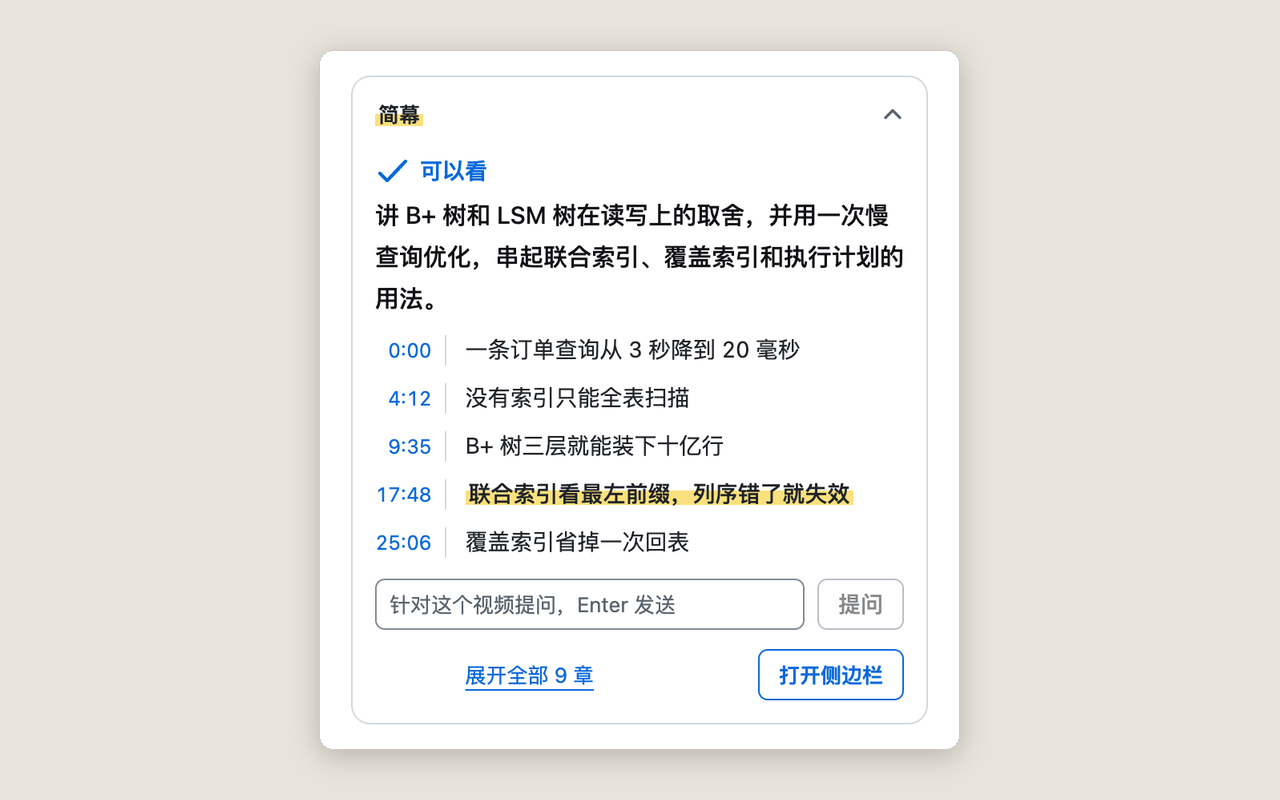
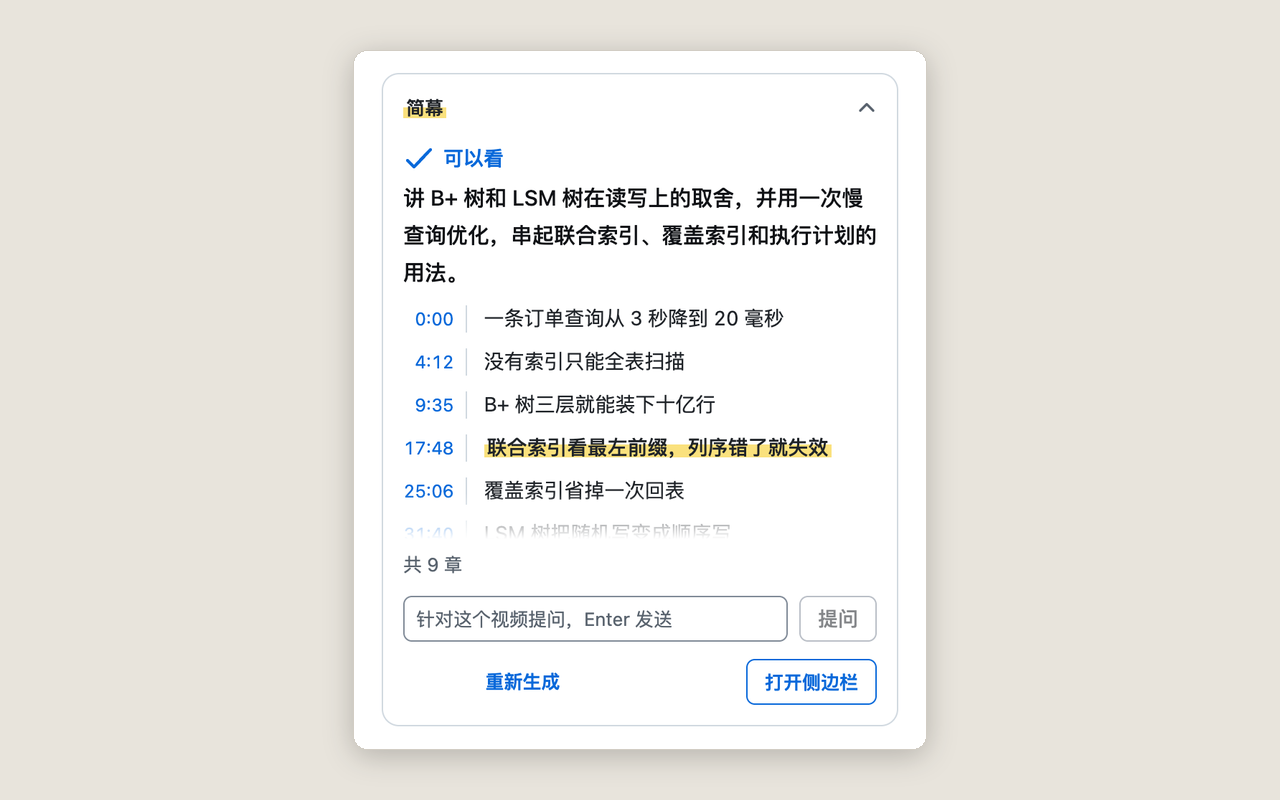
feat(卡片): 章节多时在列表里滚动，去掉「展开全部」 (#309)
* feat(卡片): 章节多时在列表里滚动，去掉「展开全部」

章节多于 6 章时整份都在，列表固定露出前 5 章那么高、第 6 章露出大半并淡出，其余在列表里滚动，底下写「共 N 章」；看后面的章节时卡片不变高，播放页右栏不重排，滚到底以后滚轮接着滚页面。底部一行不再有章节的「展开全部」，「重新生成」挪到左边，章节截着时也摆。官方总结的提纲照旧露前 5 段、点「展开全部」。README 的卡片截图重拍。

* fix(卡片): 正文区滚到头接着滚播放页

章节列表滚到底以后滚动传给正文区，正文区原来拦着不往外滚，滚轮就停在卡片里。去掉这道限制，卡片里滚到头都接着滚播放页。

Changed region(s): [[0.25, 0.0625, 0.75, 0.9375]]

diff --git a/src/pages/card/card.tsx b/src/pages/card/card.tsx
@@ -10,7 +10,7 @@ import type { LearningAnalysis } from "../../core/notes/markdown.ts";
 import { formatTimestamp } from "../../core/transcript/segment.ts";
 import type { OfficialSummaryView, OutlineSectionView } from "../../shared/messages/transcript.ts";
 import { keyChapterStarts, verdictName } from "../../core/ai/verdict.ts";
-import { ChapterList, type ChapterItem } from "../shared/ui/chapter-list.tsx";
+import type { ChapterItem } from "../shared/ui/chapter-list.tsx";
 import { Collapse } from "../shared/ui/collapse.tsx";
 import { CommentFold, commentViewOfVerdict } from "../shared/ui/comment-block.tsx";
 import { Icon, VerdictMark } from "../shared/ui/icon.tsx";
@@ -18,6 +18,7 @@ import { ServiceSaid } from "../shared/ui/notice.tsx";
 import { StaleTranscriptLine, VerdictBlock } from "../shared/ui/verdict-block.tsx";
 import { markOf, staleOverviewMarks, type BasisSource } from "../shared/ui/verdict.ts";
 import { uiLang } from "../shared/ui-lang.ts";
+import { CardChapters } from "./chapters.tsx";
 import { cardRows, chaptersInOrder, hasOverview, type CardView, type TaskProgress } from "./model.ts";
 import { canWriteFromOfficial } from "./official-verdict.ts";
 import { ASK_IDLE, type AskState } from "./ask.ts";
@@ -138,7 +139,6 @@ function Overview({
   analysis,
   stale,
   pending,
-  showAll,
   commentsOpen,
   onToggleComments,
   onSeek,
@@ -147,7 +147,6 @@ function Overview({
   /** 换过字幕：结论块里标结论的，章节的单独一行。 */
   readonly stale: { readonly verdict: boolean; readonly chapters: boolean };
   readonly pending: boolean | string;
-  readonly showAll: boolean;
   readonly commentsOpen: boolean;
   readonly onToggleComments: () => void;
   readonly onSeek: (atSec: number) => void;
@@ -158,13 +157,12 @@ function Overview({
   // 卡片上等过它（先是「正在写结论」）：写好了进来时淡一下，标记有「有结果了」那一下。
   const waited = useRef(false);
   if (pending) waited.current = true;
-  // 只摆前几章时，最后摆出来的那一章也到下一章为止：时长条按整份章节算。
+  // 每一章都到下一章为止：时长条按整份章节算。
   const all = analysis.chapters ?? [];
   const chapters: ChapterItem[] = all.map((chapter, index) => {
     const next = all[index + 1]?.timestampSeconds;
     return { startSec: chapter.timestampSeconds, title: text(chapter.title), ...(next === undefined ? {} : { endSec: next }) };
   });
-  const shown = cardRows(chapters, showAll);
   const t = cardText();
   return (
     <section class="card-block" id="card-overview" aria-label={t.overview}>
@@ -176,8 +174,8 @@ function Overview({
         <VerdictBlock label={text(verdict?.verdict)} text={summary} basis={basisOf(analysis)} staleTranscript={stale.verdict} incomplete={verdict?.incomplete === true} fresh={waited.current} />
       ) : null}
       {CardComments && comments && summary && !pending ? <CardComments view={comments} open={commentsOpen} onToggle={onToggleComments} /> : null}
-      {stale.chapters && shown.length ? <StaleTranscriptLine /> : null}
-      {shown.length ? <ChapterList chapters={shown} keyStarts={keyChapterStarts(analysis)} heading={false} onSeek={onSeek} /> : null}
+      {stale.chapters && chapters.length ? <StaleTranscriptLine /> : null}
+      {chapters.length ? <CardChapters chapters={chapters} keyStarts={keyChapterStarts(analysis)} onSeek={onSeek} /> : null}
     </section>
   );
 }
@@ -315,17 +313,13 @@ export function Card({
   const glance = glanceOf(view);
   const shape = markOf(glance.label);
   const verdictLabel = glance.label ? verdictName(glance.label, uiLang.value) : "";
-  // 章节默认只露前几章：放不下的，底部一行左边摆「展开全部」。
-  const chapterCount = analysis?.chapters?.length ?? 0;
-  const chaptersCut = chapterCount > 0 && cardRows(analysis?.chapters ?? [], false).length < chapterCount;
   const showGenerate = canGenerate && !needsSetup;
   const showSettings = needsSetup || (canGenerate && view.settingsError);
   const showRetry = (view.phase === "failed" || view.needLogin || retryRead) && !task;
   // 已经有概览：能补上缺的部分、能重新生成（先确认一次）。读不到字幕的时候两样都用不了。
   const canRedo = view.phase === "loaded" && aiReady === true && !task && hasOverview(view.analysis) && !view.noCaptions && !view.needLogin && !view.notRead;
   const showRetryFailed = canRedo && view.failedParts > 0;
-  // 「重新生成」是个少用的文字按钮：底部左边写着「展开全部 N 章」时一行放不下三样，等章节全露了才摆。
-  const showRegenerate = canRedo && !view.confirmRegenerate && !(chaptersCut && !view.showAll);
+  const showRegenerate = canRedo && !view.confirmRegenerate;
   // 侧边栏已经开着：不摆打开它的按钮。别的按钮也都没有、章节也不用「展开全部」时，底部一行整个不摆。
   const showActions = !view.holdActions && (showGenerate || showSettings || showRetry || showRegenerate || !view.panelOpen);
   // 「打开侧边栏」是底部一行的主按钮，同一行已经有别的主按钮时退成普通按钮。
@@ -382,7 +376,6 @@ export function Card({
               analysis={analysis}
               stale={staleOverviewMarks(view.transcriptBasis ?? undefined, view.transcriptFingerprint, !view.verdictPending && text(analysis.verdict?.summary) !== "")}
               pending={view.verdictPending}
-              showAll={view.showAll}
               commentsOpen={view.commentsOpen}
               onToggleComments={actions.toggleComments}
               onSeek={actions.seek}
@@ -435,30 +428,29 @@ export function Card({
         ) : null}
         {canRedo && view.confirmRegenerate ? (
           <RegenerateConfirm onConfirm={actions.regenerate} onCancel={actions.askRegenerate} />
-        ) : showActions || chaptersCut ? (
+        ) : showActions ? (
           <div class="card-actions">
-            {chaptersCut ? <More id="card-more" open={view.showAll} label={t.showAllChapters(chapterCount)} onToggle={actions.toggleShowAll} /> : null}
-            {showActions && showGenerate ? (
+            {showGenerate ? (
               <button type="button" class="button" data-variant="primary" id="card-generate" onClick={actions.generate}>
                 {t.generate}
               </button>
             ) : null}
-            {showActions && showSettings ? (
+            {showSettings ? (
               <button type="button" class="button" data-variant={needsSetup ? "primary" : "secondary"} id="card-settings" onClick={actions.openSettings}>
                 {t.openSettings}
               </button>
             ) : null}
-            {showActions && showRegenerate ? (
+            {showRegenerate ? (
               <button type="button" class="button" data-variant="text" id="card-regenerate" onClick={actions.askRegenerate}>
                 {t.regenerate}
               </button>
             ) : null}
-            {showActions && showRetry ? (
+            {showRetry ? (
               <button type="button" class="button" id="card-retry" onClick={actions.retry}>
                 {t.retry}
               </button>
             ) : null}
-            {!showActions || view.panelOpen ? null : (
+            {view.panelOpen ? null : (
               <button type="button" class="button" data-variant={panelPrimary ? "primary" : undefined} id="card-panel" onClick={actions.openPanel}>
                 {t.openPanel}
               </button>

diff --git a/src/pages/card/chapters.tsx b/src/pages/card/chapters.tsx
@@ -1,0 +1,53 @@
+// 卡片上的章节列表（PRD 第 6.5 节）：章节多时整份都在，列表固定露出前几章那么高、下一章露出大半并淡出，其余在列表里滚动，
+// 底下写共几章；章节少时全露。看后面的章节时卡片不变高，播放页右栏不重排。滚到底以后滚轮接着往外滚，不拦着：右栏是常用滚轮翻推荐的地方。
+// 高度按前几章实际排出来的高度量，标题换行、字号、卡片宽窄变了重新量。
+import { useLayoutEffect, useRef, useState } from "preact/hooks";
+import { ChapterList, type ChapterItem } from "../shared/ui/chapter-list.tsx";
+import { CARD_ROWS, cardRows } from "./rows.ts";
+import { cardText } from "./text.ts";
+
+/** 下一章露出它自己多高的几成：淡出的下沿落在它身上，看得出下面还有。 */
+const PEEK = 0.7;
+
+export function CardChapters({ chapters, keyStarts, onSeek }: { readonly chapters: readonly ChapterItem[]; readonly keyStarts: readonly number[]; readonly onSeek: (atSec: number) => void }) {
+  const scrolls = cardRows(chapters, false).length < chapters.length;
+  const box = useRef<HTMLDivElement>(null);
+  const [height, setHeight] = useState<number | null>(null);
+  const [atEnd, setAtEnd] = useState(false);
+  useLayoutEffect(() => {
+    const node = box.current;
+    if (!scrolls || !node) return;
+    const measure = (): void => {
+      const next = node.querySelectorAll<HTMLElement>(".chapter")[CARD_ROWS];
+      if (!next) return;
+      const top = next.getBoundingClientRect().top - node.getBoundingClientRect().top + node.scrollTop;
+      setHeight(Math.round(top + next.offsetHeight * PEEK));
+    };
+    measure();
+    const content = node.firstElementChild;
+    const observer = new ResizeObserver(measure);
+    observer.observe(node);
+    if (content) observer.observe(content);
+    return () => observer.disconnect();
+  }, [scrolls, chapters.length]);
+  const list = <ChapterList chapters={chapters} keyStarts={keyStarts} heading={false} onSeek={onSeek} />;
+  if (!scrolls) return list;
+  return (
+    <>
+      <div
+        class="card-chapter-scroll"
+        id="card-chapters"
+        ref={box}
+        data-end={atEnd ? "" : undefined}
+        style={height === null ? undefined : { maxHeight: `${height}px` }}
+        onScroll={(event) => {
+          const node = event.currentTarget;
+          setAtEnd(node.scrollTop + node.clientHeight >= node.scrollHeight - 1);
+        }}
+      >
+        {list}
+      </div>
+      <p class="card-chapter-count">{cardText().chapterCount(chapters.length)}</p>
+    </>
+  );
+}

diff --git a/static/pages/card.css b/static/pages/card.css
@@ -238,8 +238,7 @@ body {
   max-height: 34rem;
   padding: var(--card-body-top, 0.75rem) var(--card-pad) var(--card-pad);
   overflow-y: auto;
-  /* 滚到头不带着播放页一起滚。 */
-  overscroll-behavior: contain;
+  /* 滚到头接着滚播放页，不拦着：里面的章节列表滚到底也要能一路滚出去（PRD 第 6.5 节）。 */
   /* 上面或下面还有内容时，那一边压一道淡影，滚到头就没了：前两层跟着内容走、盖住影子，后两层钉在边上。 */
   background:
     linear-gradient(var(--card) 40%, transparent) center top / 100% 1.25rem no-repeat local,
@@ -556,6 +555,32 @@ body {
   justify-content: flex-end;
   gap: var(--space-2);
   padding: 0 var(--card-pad) var(--card-pad) var(--card-foot-left, var(--card-pad));
+}
+
+/* 章节多时的列表：固定露出前几章那么高、下一章露出大半（高度由 chapters.tsx 量好写上，这里的只是量好之前的那一帧），
+ * 其余在列表里滚动。下面还有章节时下沿淡出，滚到底就不淡了。不拦滚轮：滚到底以后接着往外滚。 */
+.card-chapter-scroll {
+  max-height: 15rem;
+  overflow-y: auto;
+  scrollbar-width: thin;
+  /* 两边留出聚焦光圈的地方，不被滚动区裁掉。 */
+  margin-inline: -3px;
+  padding-inline: 3px;
+  mask-image: linear-gradient(#000 calc(100% - 2rem), transparent);
+}
+
+.card-chapter-scroll[data-end] {
+  mask-image: none;
+}
+
+.card-chapter-count {
+  color: var(--text-muted);
+  font-size: var(--fs-meta);
+}
+
+/* 底部一行的「重新生成」靠左，和右边的按钮分在两端。 */
+#card-regenerate {
+  margin-inline-end: auto;
 }
 
 /* 「重新生成」的确认：顶替底部一行，说明在上，按钮在下一行靠右。 */

diff --git a/src/pages/card/rows.ts b/src/pages/card/rows.ts
@@ -14,10 +14,10 @@ export function chaptersInOrder(analysis: LearningAnalysis | null): readonly { r
     .sort((a, b) => a.startSec - b.startSec);
 }
 
-/** 章节和官方提纲默认露几条：卡片嵌在右栏里，太高会把下面的选集和推荐顶下去。 */
+/** 章节列表露出几章那么高（其余在列表里滚动）、官方提纲默认露几段：卡片嵌在右栏里，太高会把下面的选集和推荐顶下去。 */
 export const CARD_ROWS = 5;
 
-/** 默认露出来的那几条。只多出一条时不藏：为一条去点「展开全部」不值当。 */
+/** 默认露出来的那几条。只多出一条时不藏：为一条去滚动或点「展开全部」不值当。 */
 export function cardRows<T>(rows: readonly T[], showAll: boolean): readonly T[] {
   return showAll || rows.length <= CARD_ROWS + 1 ? rows : rows.slice(0, CARD_ROWS);
 }

diff --git a/src/pages/card/text-zh.ts b/src/pages/card/text-zh.ts
@@ -23,7 +23,7 @@ export const CARD_ZH = {
   less: "收起",
   showAll: "展开全部",
   showAllSections: (count: number) => `展开全部 ${count} 段`,
-  showAllChapters: (count: number) => `展开全部 ${count} 章`,
+  chapterCount: (count: number) => `共 ${count} 章`,
   writingVerdict: "正在写一句话结论…",
   stopping: "正在停止…",
   chunksDone: (done: number, total: number) => `已完成 ${done}/${total}`,

diff --git a/src/pages/card/text-en.ts b/src/pages/card/text-en.ts
@@ -21,7 +21,7 @@ export const CARD_EN: CardText = {
   less: "Show less",
   showAll: "Show all",
   showAllSections: (count) => `Show all ${count} sections`,
-  showAllChapters: (count) => `Show all ${count} chapters`,
+  chapterCount: (count) => `${count} chapters`,
   writingVerdict: "Writing the one-line verdict…",
   stopping: "Stopping…",
   chunksDone: (done, total) => `${done}/${total} parts done`,

diff --git a/src/pages/card/text-hant.ts b/src/pages/card/text-hant.ts
@@ -21,7 +21,7 @@ export const CARD_HANT: CardText = {
   less: "收合",
   showAll: "展開全部",
   showAllSections: (count) => `展開全部 ${count} 段`,
-  showAllChapters: (count) => `展開全部 ${count} 章`,
+  chapterCount: (count) => `共 ${count} 章`,
   writingVerdict: "正在寫一句話結論…",
   stopping: "正在停止…",
   chunksDone: (done, total) => `已完成 ${done}/${total}`,

diff --git a/notes/architecture.md b/notes/architecture.md
@@ -186,7 +186,7 @@ jianmu/
 | `src/pages/options/` | 设置页：确认启用之前只有启用说明、资料一节（导出备份、清除本机数据）和「关于」；确认以后按「要先设置好才能用的排在前面」依次是 AI 服务（服务商、地址、密钥和记住密钥、默认模型和按功能选模型、按功能选推理强度、概览分块（自动、较短、较长、尽量整份；尽量整份八万字以内一块送完，问答检索在这一档仍按自动切块，`qaChunkOptions`）、数据说明和同意）和打开就出结论（开关、时长门槛；因为额度用完、密钥被拒、本机服务拒绝停着时，开关下面写一行原因，旁边的「恢复」经 `auto.resume` 让它接着做；没同意当前的数据说明时，勾开关先就地列出说明，「同意并打开」先存同意再开开关，关掉和改时长不用同意，`auto-section.tsx`；分钟数旁边写明范围，填的数被规整成另一个数时就地说一句，`auto-minutes.ts`）和速读、精读（说明怎么定模式，写明记住了几个 UP 主或频道（`channels.count`），一个都没有时不摆清除按钮，`mode-section.tsx`），再往后是播放页卡片开关和外观（含语言），`app.tsx` 排这个顺序。「关于」一节启用前后都有、不受构建开关控制：清单里的版本号、这次构建的标识，和在新标签页打开的更新记录（发布页）、源码、隐私政策、反馈问题四个链接（`about-section.tsx`）。设置直接经设置仓库读写，本页的写入排成一条队；要点「保存」的只有表单里的服务商、地址、密钥、模型和记住密钥，保存先在点击里申请这个地址的主机权限，存好以后回收用不上的授权；第一次存下密钥、还没记住也没问过时，按钮下面就地问一句要不要记在这台电脑上（「记住」「不用」不预选，照写未加密；记住等于勾上再保存，「不用」记成 `rememberKeyAsked`），保存收尾时表单的服务商、地址、密钥已经换了或勾选框被勾上就不问，改了这几样那一问就收起，保存进行中勾选框不能动；获取模型列表和测试连接先按表单保存再发给后台。其余几项即改即存：外观（含语言）、卡片开关、打开就出结论，以及推理强度和概览分块；推理强度按功能合并着存，保存表单时这些项按存着的补全。推理强度改一档，存好以后拿存着的档位问后台实际生效的档位（只在本机算，不发模型请求），和选的不一样时在旁边标出；表单上的服务商或模型还没保存时先不标。「AI 服务」一节同一时间只有一条状态，带着落点（`AiPlace`）：清除密钥、记住密钥、获取模型、看图检测、推理强度、概览分块的结果写在各自的控件下面，保存和测试连接的写在按钮下面；获取模型、看图检测之前那次保存没存成，原因也写在点的那个按钮旁边。保存以后那句「存好了／还差什么」跟着数据同意的勾选重算，换成别的提示以后不再管。同意过数据说明、要密钥的服务却没有密钥时（多半是重启或更新以后清空了），打开设置页就在密钥框下面说要重新填，开始填就收起，也不再摆国内、海外的快捷选择。「AI 服务」一节里，推理强度和概览分块排在「保存」后面，收在一个折叠里：打开设置页时有一项不是默认值就展开着，之后开合只听用户的。从侧边栏、卡片带着节名打开或切回来时（`options.open` 的节名，地址里是 `#节名`），`main.tsx` 等那一节渲染出来以后滚过去，再把节名从地址上去掉。页面上的字都取自文案表：`text-zh.ts`、`text-en.ts` 是中英两份，`text.ts` 取当前语言那份（`optionsText`）或指定语言那份（`textOf`），功能槽的名字经 `slotLabel` 取，画面解释和 YouTube 一节的文案在开关模块 `frame-text.ts`、`youtube-text.ts`；状态行按写出来那一刻的界面语言写（`state.ts` 收 `lang`）。`form.ts` 是表单的纯逻辑，`state.ts` 是状态和动作，`model-field.tsx` 是模型框（能手填；拉到模型以后带候选，边打字边筛，点框或箭头列出全部），候选的筛选和方向键移动在 `model-options.ts`，`ai-status.ts` 是「AI 服务」一节那条带落点的状态，`backup-transfer.ts` 管备份的导出和恢复：经端口分段收发、导出成文件下载、读选中的文件认出是不是简幕的备份，状态行的话也在这里写；要不要问记住密钥的判断（`asksRememberAfterSave`）和服务商、地址、密钥是否还是同一把（`sameCredentials`）在 `form.ts` |
 | `src/pages/triage/` | 稍后再看粗筛页，从设置页或工具栏图标的右键菜单打开：确认启用前给一个去设置页启用的按钮；读列表、第一步取官方总结、第二步写一句话结论都经端口 `batch` 交给后台，开始前就地确认，写清数量、跳过规则和费用：这一页刚读完列表时直接摆出第一步（不花额度）的确认，重新打开时不自动弹；第二步没有可写的视频时不摆按钮，说清是还没取官方总结、取完了都没有、还是都写过了，没设置好 AI 时状态行带「打开设置」，设置好回来再点时清掉；「关掉这个页面……可能照样计费」只在第二步在跑或等确认时显示；按判断分组筛选，导出 Markdown；关页面就断开端口，后台撤掉还在排队的；重新打开时直接显示本机存着的列表、官方总结和结论。`state.ts` 是状态和动作，状态行和确认的几行按写出来那一刻的界面语言写，导出的清单和文件名也按它；页面上的字取自 `text-zh.ts`、`text-en.ts`，`text.ts` 取当前语言那份（`triageText`）或指定语言那份（`triageTextOf`）；`static/pages/triage.css` 是它自己的版面 |
 | `src/content/` | 内容脚本，原生 DOM：`bilibili.ts` 是 B 站的入口，`youtube.ts` 是 YouTube 的入口（只在 `FEATURE_YOUTUBE` 打开时构建，用户在 YouTube 上启用以后由后台动态注册，撤权的广播到了连同卡片整套撤下），`youtube-bridge.ts` 是 YouTube 主世界小桥的入口，授权在、首次启用确认也算数时才注册（规则在 `site-switch.ts`），撤权时和它一起注销，注册成页面一开始加载就跑，`FEATURE_YOUTUBE_CAPTION_CATCH` 打开时还装上接住播放器字幕的那一层，同一页面再注入一份时新的接手、旧的整套撤下（接住字幕的那一层把原来的函数还回去）；`gate.ts` 是启用闸门，确认前只挂一个收后台消息的监听，不读页面、不插节点，启用失效（清除全部数据）时整套撤下、重新等确认，每次没放行都叫一声，YouTube 的入口借这一声叫主世界小桥停下接字幕、清掉接住的；`app.ts` 管生命周期（页面激活稳定后才挂界面、定时自查、扩展重新加载后旧脚本收场）；`player.ts` 执行播放器指令（读状态、跳转，地址变了要等播放器换上新视频）；`play-reporter.ts` 每个视频先报一次时长和作者栏上的频道编号（读不到频道最多等 5 秒），从后台回的累计秒数接着计，每累计 10 秒报一次，后台说不用再报就停；`hover-icons.ts` 是播放器右上角的图标浮层（笔记图标，构建开关打开时下面还有解释当前画面的图标），点击时的防劫持核对是 `click-guard.ts` 里的纯函数，`shortcut.ts`、`mini-player.ts` 是 `n` 快捷键和小窗避让，只认真实操作；图标只有图标没有字，平时藏着，`reveal.ts` 定什么时候露：页面给了控制栏显隐的信号就跟着它（B 站已接上），没给时鼠标在播放器上动过露 3 秒，鼠标停在图标上、闪着提示时一直露着；`frame.ts` 截当前一帧（两站的入口都挂上，`player.captureFrame` 和图标共用，拒绝分开报，截图不落盘），`frame-icon.ts` 是解释当前画面的图标，点了先就地看有没有视频、是不是在播广告、视频换没换，能截就发 `frame.explainHere` 交给后台，图标上说结果在侧边栏还是要点简幕图标，这两个只在 `FEATURE_FRAME_EXPLAIN` 打开时进包；`card-frame.ts` 用 iframe 把卡片插在各站 `cardSlot` 给的位置（B 站宽屏时挪到弹幕列表下面，YouTube 跟着推荐视频走），换视频只发提醒不改地址；卡片的明暗跟着周围的页面，插入时写在卡片地址的 # 后面，页面换了明暗、卡片在听了再发消息告诉它；`page-tone.ts` 从卡片要插的地方往上找第一个有底色的节点，按底色的亮度分浅色深色，不认站点的类名；播放页上简幕自己的字（图标的悬停提示和闪的那句、卡片框架的名字、更新后的提示）在 `text.ts`，解释当前画面那个图标的字在 `frame-icon.ts`；`lang.ts` 定这些字用哪种语言：后台在外观的回复（`appearance.get`）和广播（`appearance.changed`）里带上设置里的语言选项（只带这个三选一的选项，只有它变了也广播），内容脚本按它和浏览器的界面语言解析，取值认不出时按跟随浏览器；语言变了换掉悬停提示和框架名字；报错的悬停提示也按这个语言写 |
-| `src/pages/card/` | 播放页总结卡片：`model.ts` 是状态和操作（状态的形状和初始值在 `view.ts`，有没有概览、章节排序、默认露几条这几个纯函数在 `rows.ts`，「用官方总结写结论」的登记和开始在 `official-verdict.ts`，提问的状态在 `ask.ts`、界面在 `ask-view.tsx`），认视频只看所在标签页的地址（两站的地址规则都认），只做轻量读取（YouTube 本机还没有字幕时：能代开文字稿面板的构建里照样摆「生成概览」，没有代开的构建里提示先在侧边栏读取），生成概览只认真实点击、凭登记换到的一次性令牌开始，跟上侧边栏为同一视频起的、打开就出结论自动起的任务（进度行标出是自动生成），收尾后重读、摆出结论；没启用、卡片关着时不显示也不读；展开收起的规则在 `fold.ts`，跟着本标签页的观看会话和本窗口的侧边栏：这个视频里手动展开收起过的为准，否则侧边栏关着、又在速读才展开，侧边栏开着就让位收起，精读也收起（播满时长自动切到的精读不算，照速读摆）；收到本视频的 `session.changed` 重读自己标签页的会话，侧边栏开没开在启动、标签页回到前台和换了窗口时问一次 `panel.state`（问不到当关着），之后听本窗口的 `panel.changed`，第一次问到之前不定展开收起；新视频的会话还没有时先收着等它定模式，最多等 2 秒，等不到按现在知道的定；收起时不读，后台打开的标签页第一次到前台才读；每个视频第一次读时按钮行先不摆，读完、官方总结有了结果再摆，最多等 5 秒，摆出来以后不再收回（`timers.ts` 放这段和定时器）；章节和官方提纲默认只露前 5 条、点了才全露，有概览时官方总结收成一行，这两样换了视频回到默认；收起的那一行写什么在 `glance.ts`：收着、侧边栏关着、已有章节、还没有一句话结论时每 2 秒问一次本页播放器播到哪（标签页不在前台不问），写成「第几章 章节名」；浏览器没让卡片打开侧边栏时在这一行上说一句，这句话只在看得见时计时、过几秒收回；`card.tsx` 是界面，结论排在最前，不重复视频标题，标题栏展开时只写名字，收起时写判断记号、判断档和一句话结论（没有结论时写上面那一段的当前章节）、旁边是打开侧边栏的入口，侧边栏开着时不摆这个入口和「打开侧边栏」按钮，底部一行左边是章节的「展开全部」、右边是按钮，五套主题各自的头部、底部、收起的一行和外框写在 `static/pages/card.css` 里，展开收起时标题栏下面那一块的高度有过渡（收起时内容留到过渡走完才拿掉，点了展开而内容还在读就先等一下再打开；系统设了减少动效时没有过渡），`main.tsx` 接消息、外观和高度上报（过渡的每一帧都报，页面上的框架跟着变高），明暗用内容脚本给的所在页面的明暗，认不出时才按设置；页面上的字取自 `text-zh.ts`、`text-en.ts`，`text.ts` 取当前语言那份（`cardText`）或指定语言那份（`cardTextOf`），收起那一行的判断档写成当前语言的显示名，`model.ts` 写的状态按写出来那一刻的界面语言写；评论区（PRD F23）在展开时结论下面多一行口碑标签加一句话，收起的那一行不变，只在 `FEATURE_COMMENTS` 打开时进包 |
+| `src/pages/card/` | 播放页总结卡片：`model.ts` 是状态和操作（状态的形状和初始值在 `view.ts`，有没有概览、章节排序、默认露几条这几个纯函数在 `rows.ts`，「用官方总结写结论」的登记和开始在 `official-verdict.ts`，提问的状态在 `ask.ts`、界面在 `ask-view.tsx`），认视频只看所在标签页的地址（两站的地址规则都认），只做轻量读取（YouTube 本机还没有字幕时：能代开文字稿面板的构建里照样摆「生成概览」，没有代开的构建里提示先在侧边栏读取），生成概览只认真实点击、凭登记换到的一次性令牌开始，跟上侧边栏为同一视频起的、打开就出结论自动起的任务（进度行标出是自动生成），收尾后重读、摆出结论；没启用、卡片关着时不显示也不读；展开收起的规则在 `fold.ts`，跟着本标签页的观看会话和本窗口的侧边栏：这个视频里手动展开收起过的为准，否则侧边栏关着、又在速读才展开，侧边栏开着就让位收起，精读也收起（播满时长自动切到的精读不算，照速读摆）；收到本视频的 `session.changed` 重读自己标签页的会话，侧边栏开没开在启动、标签页回到前台和换了窗口时问一次 `panel.state`（问不到当关着），之后听本窗口的 `panel.changed`，第一次问到之前不定展开收起；新视频的会话还没有时先收着等它定模式，最多等 2 秒，等不到按现在知道的定；收起时不读，后台打开的标签页第一次到前台才读；每个视频第一次读时按钮行先不摆，读完、官方总结有了结果再摆，最多等 5 秒，摆出来以后不再收回（`timers.ts` 放这段和定时器）；章节和官方提纲默认只露前 5 条、点了才全露，有概览时官方总结收成一行，这两样换了视频回到默认；收起的那一行写什么在 `glance.ts`：收着、侧边栏关着、已有章节、还没有一句话结论时每 2 秒问一次本页播放器播到哪（标签页不在前台不问），写成「第几章 章节名」；浏览器没让卡片打开侧边栏时在这一行上说一句，这句话只在看得见时计时、过几秒收回；`card.tsx` 是界面，结论排在最前，不重复视频标题，标题栏展开时只写名字，收起时写判断记号、判断档和一句话结论（没有结论时写上面那一段的当前章节）、旁边是打开侧边栏的入口，侧边栏开着时不摆这个入口和「打开侧边栏」按钮，章节多时在列表里滚动（`chapters.tsx`），底部一行左边是「重新生成」、右边是按钮，五套主题各自的头部、底部、收起的一行和外框写在 `static/pages/card.css` 里，展开收起时标题栏下面那一块的高度有过渡（收起时内容留到过渡走完才拿掉，点了展开而内容还在读就先等一下再打开；系统设了减少动效时没有过渡），`main.tsx` 接消息、外观和高度上报（过渡的每一帧都报，页面上的框架跟着变高），明暗用内容脚本给的所在页面的明暗，认不出时才按设置；页面上的字取自 `text-zh.ts`、`text-en.ts`，`text.ts` 取当前语言那份（`cardText`）或指定语言那份（`cardTextOf`），收起那一行的判断档写成当前语言的显示名，`model.ts` 写的状态按写出来那一刻的界面语言写；评论区（PRD F23）在展开时结论下面多一行口碑标签加一句话，收起的那一行不变，只在 `FEATURE_COMMENTS` 打开时进包 |
 | `src/background/` 入口和路由 | `chrome-deps.ts` 是浏览器里的真实依赖；`site-switch.ts` 管要用户另外授权的站（YouTube）：授权在就注册内容脚本，主世界的小桥另外要首次启用确认算数才注册（确认以后由启用路由补上，清除全部数据让启用失效时撤掉），安装、更新后重新注册，新授权往已开页面补注入，撤权按编号通知全部已开标签页撤下（授权没了不能再按地址找，后台重启过以后内存里登记的又是空的；不按地址筛选查，只取标签页编号，不等页面回话），YouTube 的内容脚本收到撤权时叫主世界的小桥整个退场，撤了权那个站上残留的内容脚本发来的业务请求回没启用（只在 `FEATURE_YOUTUBE` 打开时进包）；`main.ts` 一次注册全部顶层监听（含打开就出结论要的标签页激活、更新和窗口焦点，工具栏图标右键菜单的点击），都先过 `wake.ts` 的醒来钩子，每个事件先让 `self-update.ts` 看一眼扩展目录里的构建标识文件：解压覆盖了别的构建就自己重新加载（一分钟最多看一次，任务、批次、润色，导出、导入备份和清除数据在跑时等它做完（导入从连上到断开都算），同一个新标识重载几次还对不上就停下，记录在 `jianmu_self_reload`）；`app.ts` 拼依赖；`router.ts`、`senders.ts`、`routes/` 是路由表、端口表、发送方核对和首次启用闸门，放行规则见第 10.2 节的允许矩阵；不认识的请求和端口名回 `UNKNOWN_ROUTE`，和发送方不放行的 `FORBIDDEN` 分开，端口被拒时先发一条带码的通知再断开；`routes/build.ts` 回后台的构建标识；端口连接走同一道闸门，启用失效时断开，会发起工作的端口消息逐条重查；`assemble-overview.ts` 拼装概览服务，从 `app.ts` 拆出来免得它超长 |
 | `src/background/ai.ts` | 模型服务接线：传输层按设置规则建，主机权限只查不申请，参数放宽记在会话存储里，模型能力只经核对过同意的读取取得，写缓存过清除闸门；服务按任务取冻结的地址、模型、推理档位和写内容的语言（`outputLang`，建任务时解析一次，进等价键、随结果存下，旧记录没有按中文），硬超时跟着档位放宽；结论、章节、问答和两种解释的提示词按这个语言从模板的「中文规则」「繁体中文规则」「英文规则」里取一节填好再发（`core/ai/prompt.ts` 的 `localizePrompt`），翻译译成这个语言、字幕已经是它时译成另一种（选简体或繁体时中文字幕不分简繁都译成英文），补失败块时已存章节的语言和这次的不一样按对不上处理；配置检查、拉模型列表、测试连接、推理强度预览四条路由和打开就出结论的「恢复」（`auto.resume`）在 `routes/ai.ts`；任务里每次请求服务回报的用量按功能记最近一次，在 `usage.ts`，推理强度预览一起带回去；拉模型列表、测试连接失败时交给设置页的说明按语言设置写 |
 | `src/background/tasks.ts` | 任务运行：登记、认领、没人认领到点收尾，任务里另几步用的功能（概览的结论）登记时一起取定配置，问答的问题、解释的选区这类功能输入随登记一起交、进等价键，互斥键和等价键，跟着页面走的任务在页面都断开时停下，整个任务和每次模型请求两层保活；登记时可以挂发送钩子（自动生成用）：每次发模型请求之前问一次，不放行就按取消收尾，请求失败也交给它看，用户或卡片接上这个任务以后照样问、带上已接上的标记；任务表只在内存里。`limits.ts` 是卡片的限频和一次性令牌，列出、登记、取消三条路由在 `routes/tasks.ts`；任务进度和收尾的那句话按任务取定的语言写，各服务的进度说法也从同一处取（`progress-text.ts`） |

diff --git a/notes/product-prd.md b/notes/product-prd.md
@@ -146,14 +146,14 @@ B 站和 YouTube 都有卡片（F14），规矩一样（开发者本人 2026-11-
 
 - 侧边栏关着、又在速读时展开，显示结论和章节；精读和学英语时收起成一行；短视频默认收起。播满 1 分钟自动切到的精读不算，卡片照速读摆。
 - 侧边栏开着时卡片让位收起，关上再回来：同一份结论和章节已经摆在侧边栏里，页面上不再摆一遍（开发者本人 2026-11-20 定，原来侧边栏开着时两边内容重复）。浏览器报不出侧边栏开关的老版本（Chrome 142 之前）里，卡片照旧只跟模式走。
-- 展开时结论排在最前。章节默认只露前 5 章，点「展开全部」才全露（只多出一章时直接全露）；还没有概览时 B 站官方总结照这个规矩露，已经有概览时收成一行、点开才露。卡片上不重复视频标题，没有官方总结时不占一行去说。展开时底部一行摆按钮：能生成时摆「生成概览」，侧边栏关着时摆「打开侧边栏」，同一行没有别的主按钮时「打开侧边栏」就是主按钮。
+- 展开时结论排在最前。章节多于 6 章时整份都在，列表固定露出前 5 章那么高、第 6 章露一截，其余在列表里滚动，底下写「共 N 章」，卡片不跟着变高；滚到底以后滚轮接着滚页面（开发者本人 2026-11-26 定，原来只露前 5 章、点「展开全部」才全露）。6 章以内全露。还没有概览时 B 站官方总结的提纲默认只露前 5 段，点「展开全部」才全露；已经有概览时收成一行、点开才露。卡片上不重复视频标题，没有官方总结时不占一行去说。展开时底部一行摆按钮：能生成时摆「生成概览」，侧边栏关着时摆「打开侧边栏」，同一行没有别的主按钮时「打开侧边栏」就是主按钮。
 - 收起的那一行不空着（开发者本人 2026-11-20 定，原来只有「简幕 · 总结」几个字）：本机已经读到结论时写判断档，后面是一句话结论（一行，放不下截断；开发者本人 2026-11-26 定，原来写播放到的章节）；还没有结论、只有章节时写播放到的章节（「3/7 章节名」，和侧边栏精读顶上那一条同一个写法）；旁边一个打开侧边栏的入口。浏览器没让卡片打开侧边栏时，这一行先说一句「请点工具栏上的简幕图标」，几秒后换回这一行原来写的内容；这句话只在看得见时计时，到点时标签页在后台就留着，回到前台从头数。为了写当前章节，收着时每 2 秒问一次本页的播放器播到哪，侧边栏开着、标签页不在前台、还没有章节、已经有结论时不问。侧边栏开着时卡片上不摆打开侧边栏的入口和按钮。
 - 用户在这个视频里手动展开或收起过，以用户的为准，直到换下一个视频。
 - 播满 1 分钟自动切到精读时，卡片不跟着收起：这时人正看着视频，右栏突然缩一下、冒出一句提示，反而打断注意力；想收起就点一下标题栏（开发者本人 2026-11-25 定，原来跟着收起，11-23 起鼠标停在卡片上时先不收）。
 - 收起时不读视频数据（判断档、一句话结论和章节只用收起之前已经读到的）；后台打开的标签页第一次切到前台才读。「打开就出结论」在后台生成好的，切过去时直接显示结论。
 - 展开读数据时顺带看这个视频有没有字幕，确定没有时直接说没有字幕，不摆「生成概览」，免得点了才知道（开发者本人 2026-11-26 定）。B 站登录着时列一次字幕轨，不读字幕文件，列表空着、官方总结也不会附带 AI 字幕才算没有；随后点生成时接着用这次列到的，不再列一遍。YouTube 只看播放器上已有的字幕轨列表（第 8.2 节第 7 条），播放器说这个视频能正常播、列表又是空的才算没有。列不成、拿不准时照旧摆「生成概览」。后台为「打开就出结论」问视频时长时不列字幕轨。
 - 概览里有评论区的结果时（F23），展开时结论下面多一行：口碑标签加一句话。有要点时这一行点得开，露出要点，每条再点开露出它依据的原评论，和侧边栏一样默认收着；换了视频回到收着（开发者本人 2026-11-26 定，原来要点和原评论只在侧边栏）。收起的那一行不变。卡片不为评论另外读平台。
-- 已经有概览时，底部一行多一个文字按钮「重新生成」：章节全露时才摆（底部写着「展开全部」时一行放不下）；点了在底部一行的位置说一句会再花一次 API 额度，下一行点「确认重新生成」才开始，点「取消」收回，收起卡片或跟上别处的任务时也收回；同一个视频在卡片上十分钟只能重新生成一次，侧边栏不限；重新生成没写成结论或被停时说原来的概览还留着；概览有没生成出来的分块时，正文里说一句并摆「补上缺的部分」。停在中途时的提示也指向这个按钮。两样和「生成概览」合起来每分钟最多 3 次，只认真实点击（开发者本人 2026-11-26 定，原来要到侧边栏做）。
+- 已经有概览时，底部一行多一个文字按钮「重新生成」，在左边，「打开侧边栏」在右边；点了在底部一行的位置说一句会再花一次 API 额度，下一行点「确认重新生成」才开始，点「取消」收回，收起卡片或跟上别处的任务时也收回；同一个视频在卡片上十分钟只能重新生成一次，侧边栏不限；重新生成没写成结论或被停时说原来的概览还留着；概览有没生成出来的分块时，正文里说一句并摆「补上缺的部分」。停在中途时的提示也指向这个按钮。两样和「生成概览」合起来每分钟最多 3 次，只认真实点击（开发者本人 2026-11-26 定，原来要到侧边栏做）。
 - B 站有官方总结、本机还没有一句话结论、AI 服务设置好时，结论该在的地方摆「用官方总结写结论」，旁边说只发一次小请求、不通读字幕；和侧边栏的同一个按钮一样，写好的结论标「依据 B 站官方总结」（开发者本人 2026-11-26 定，原来只在侧边栏）。卡片发起的这一种和「生成概览」合起来每分钟最多 3 次，只认真实点击。
 - 能提问时（有字幕可用：B 站登录着时后台自己读，YouTube 要本机已有），正文最后是一行提问框，Enter 或「提问」发出；上面摆这一次的问题和回答，回答里的时间点能点着跳，正在答时可以停止。卡片只摆这一次的问答，换了视频就不留；问答历史、引用的原文、删除和复制在侧边栏（开发者本人 2026-11-26 定，原来提问入口只在侧边栏）。卡片的提问和「生成概览」等合起来每分钟最多 3 次，只认真实的提交。
 
